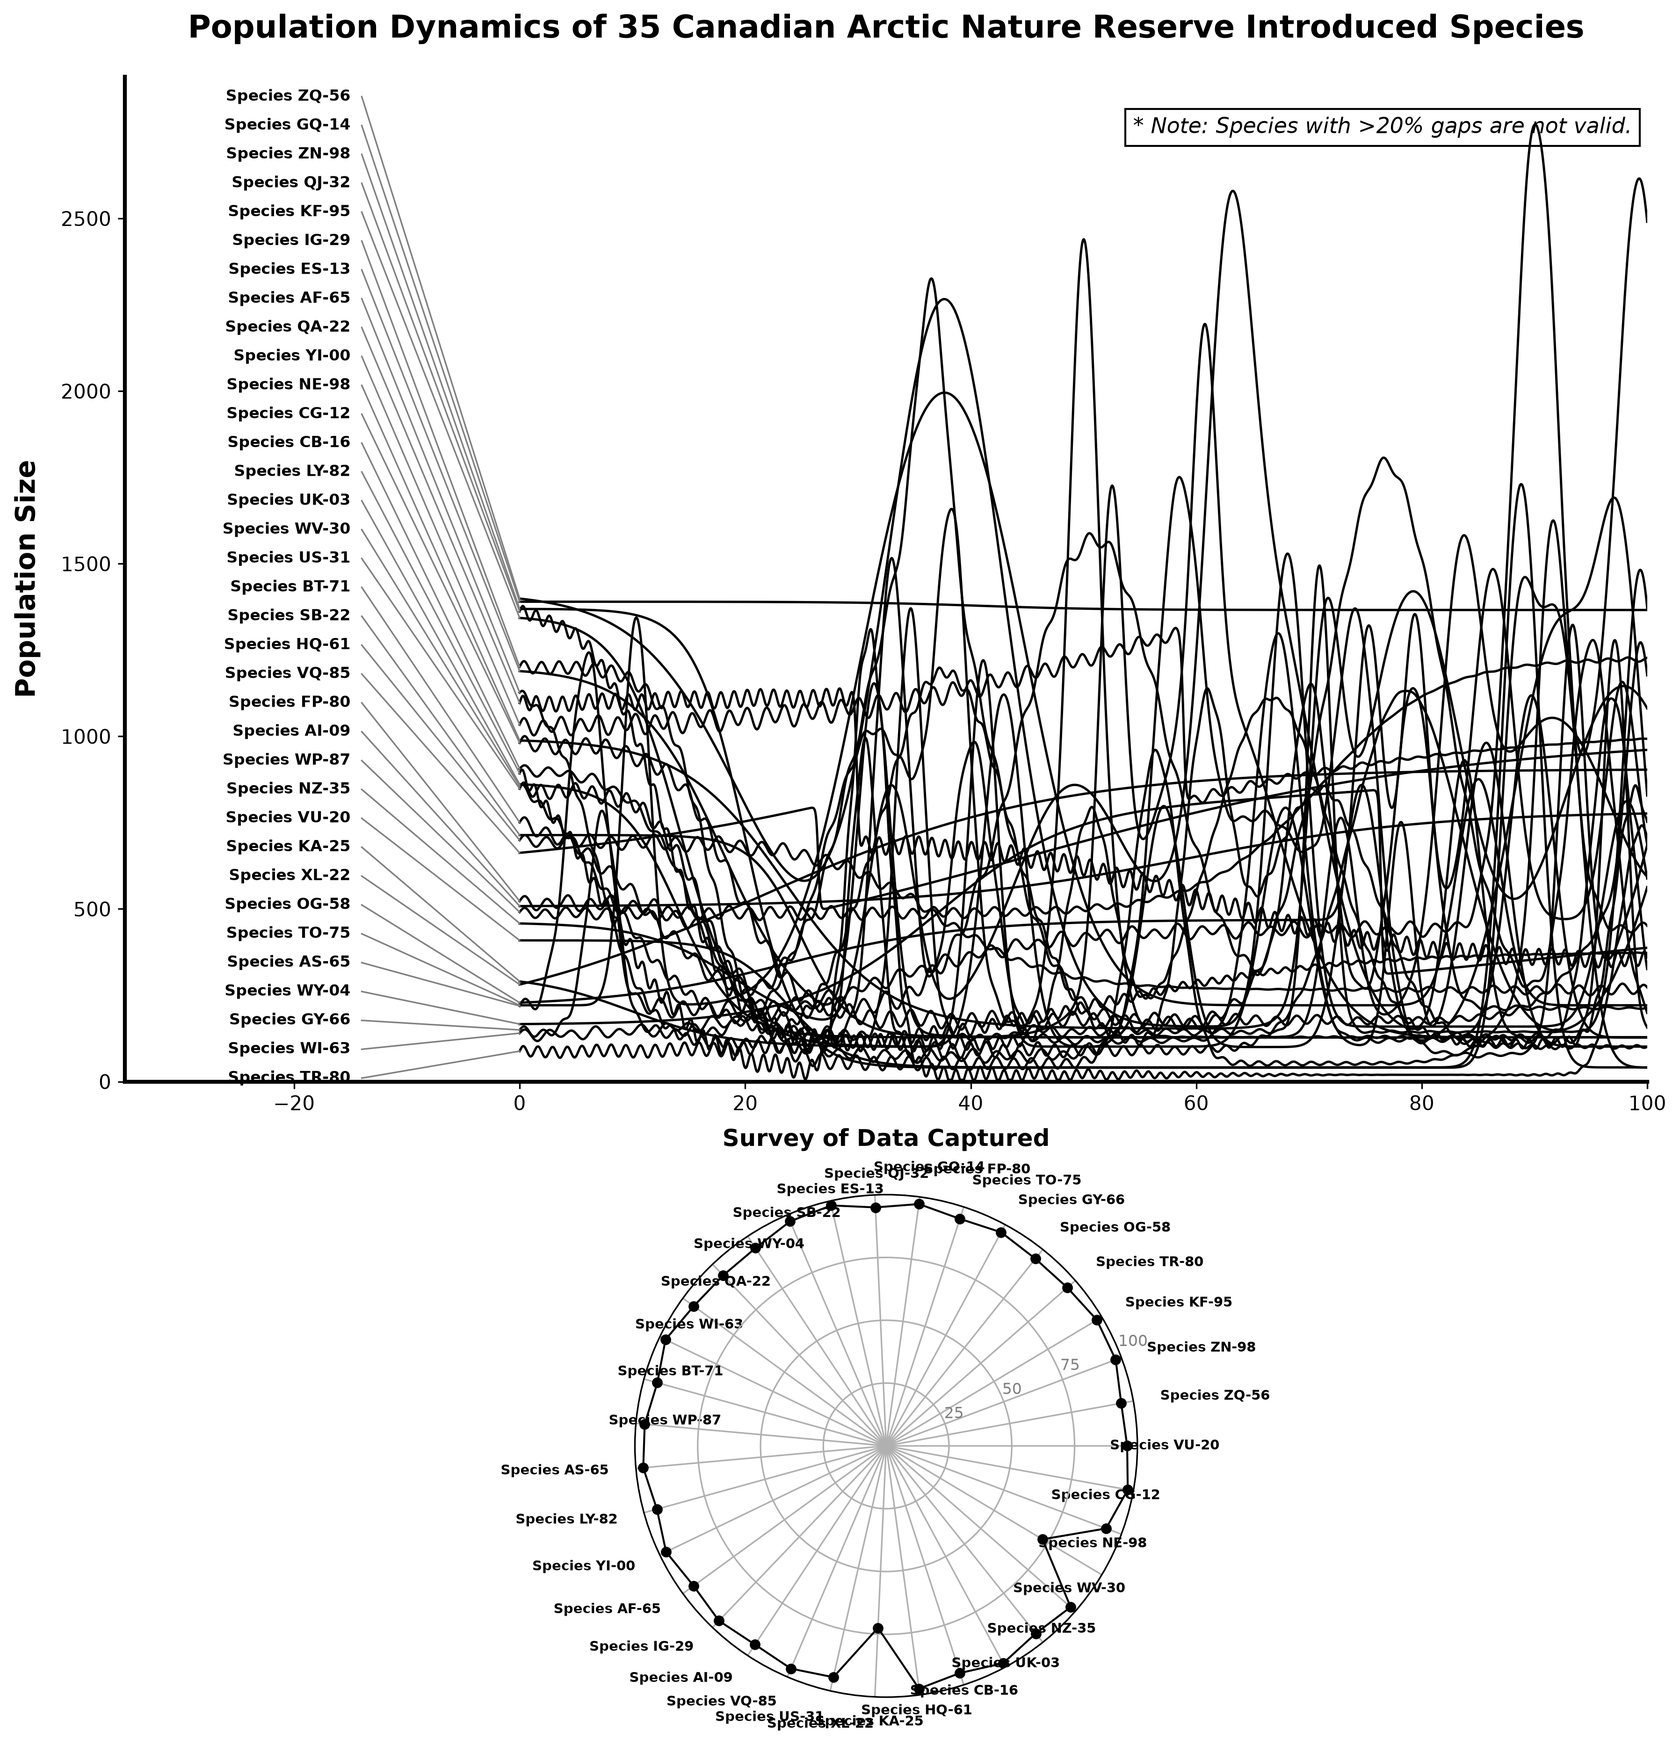
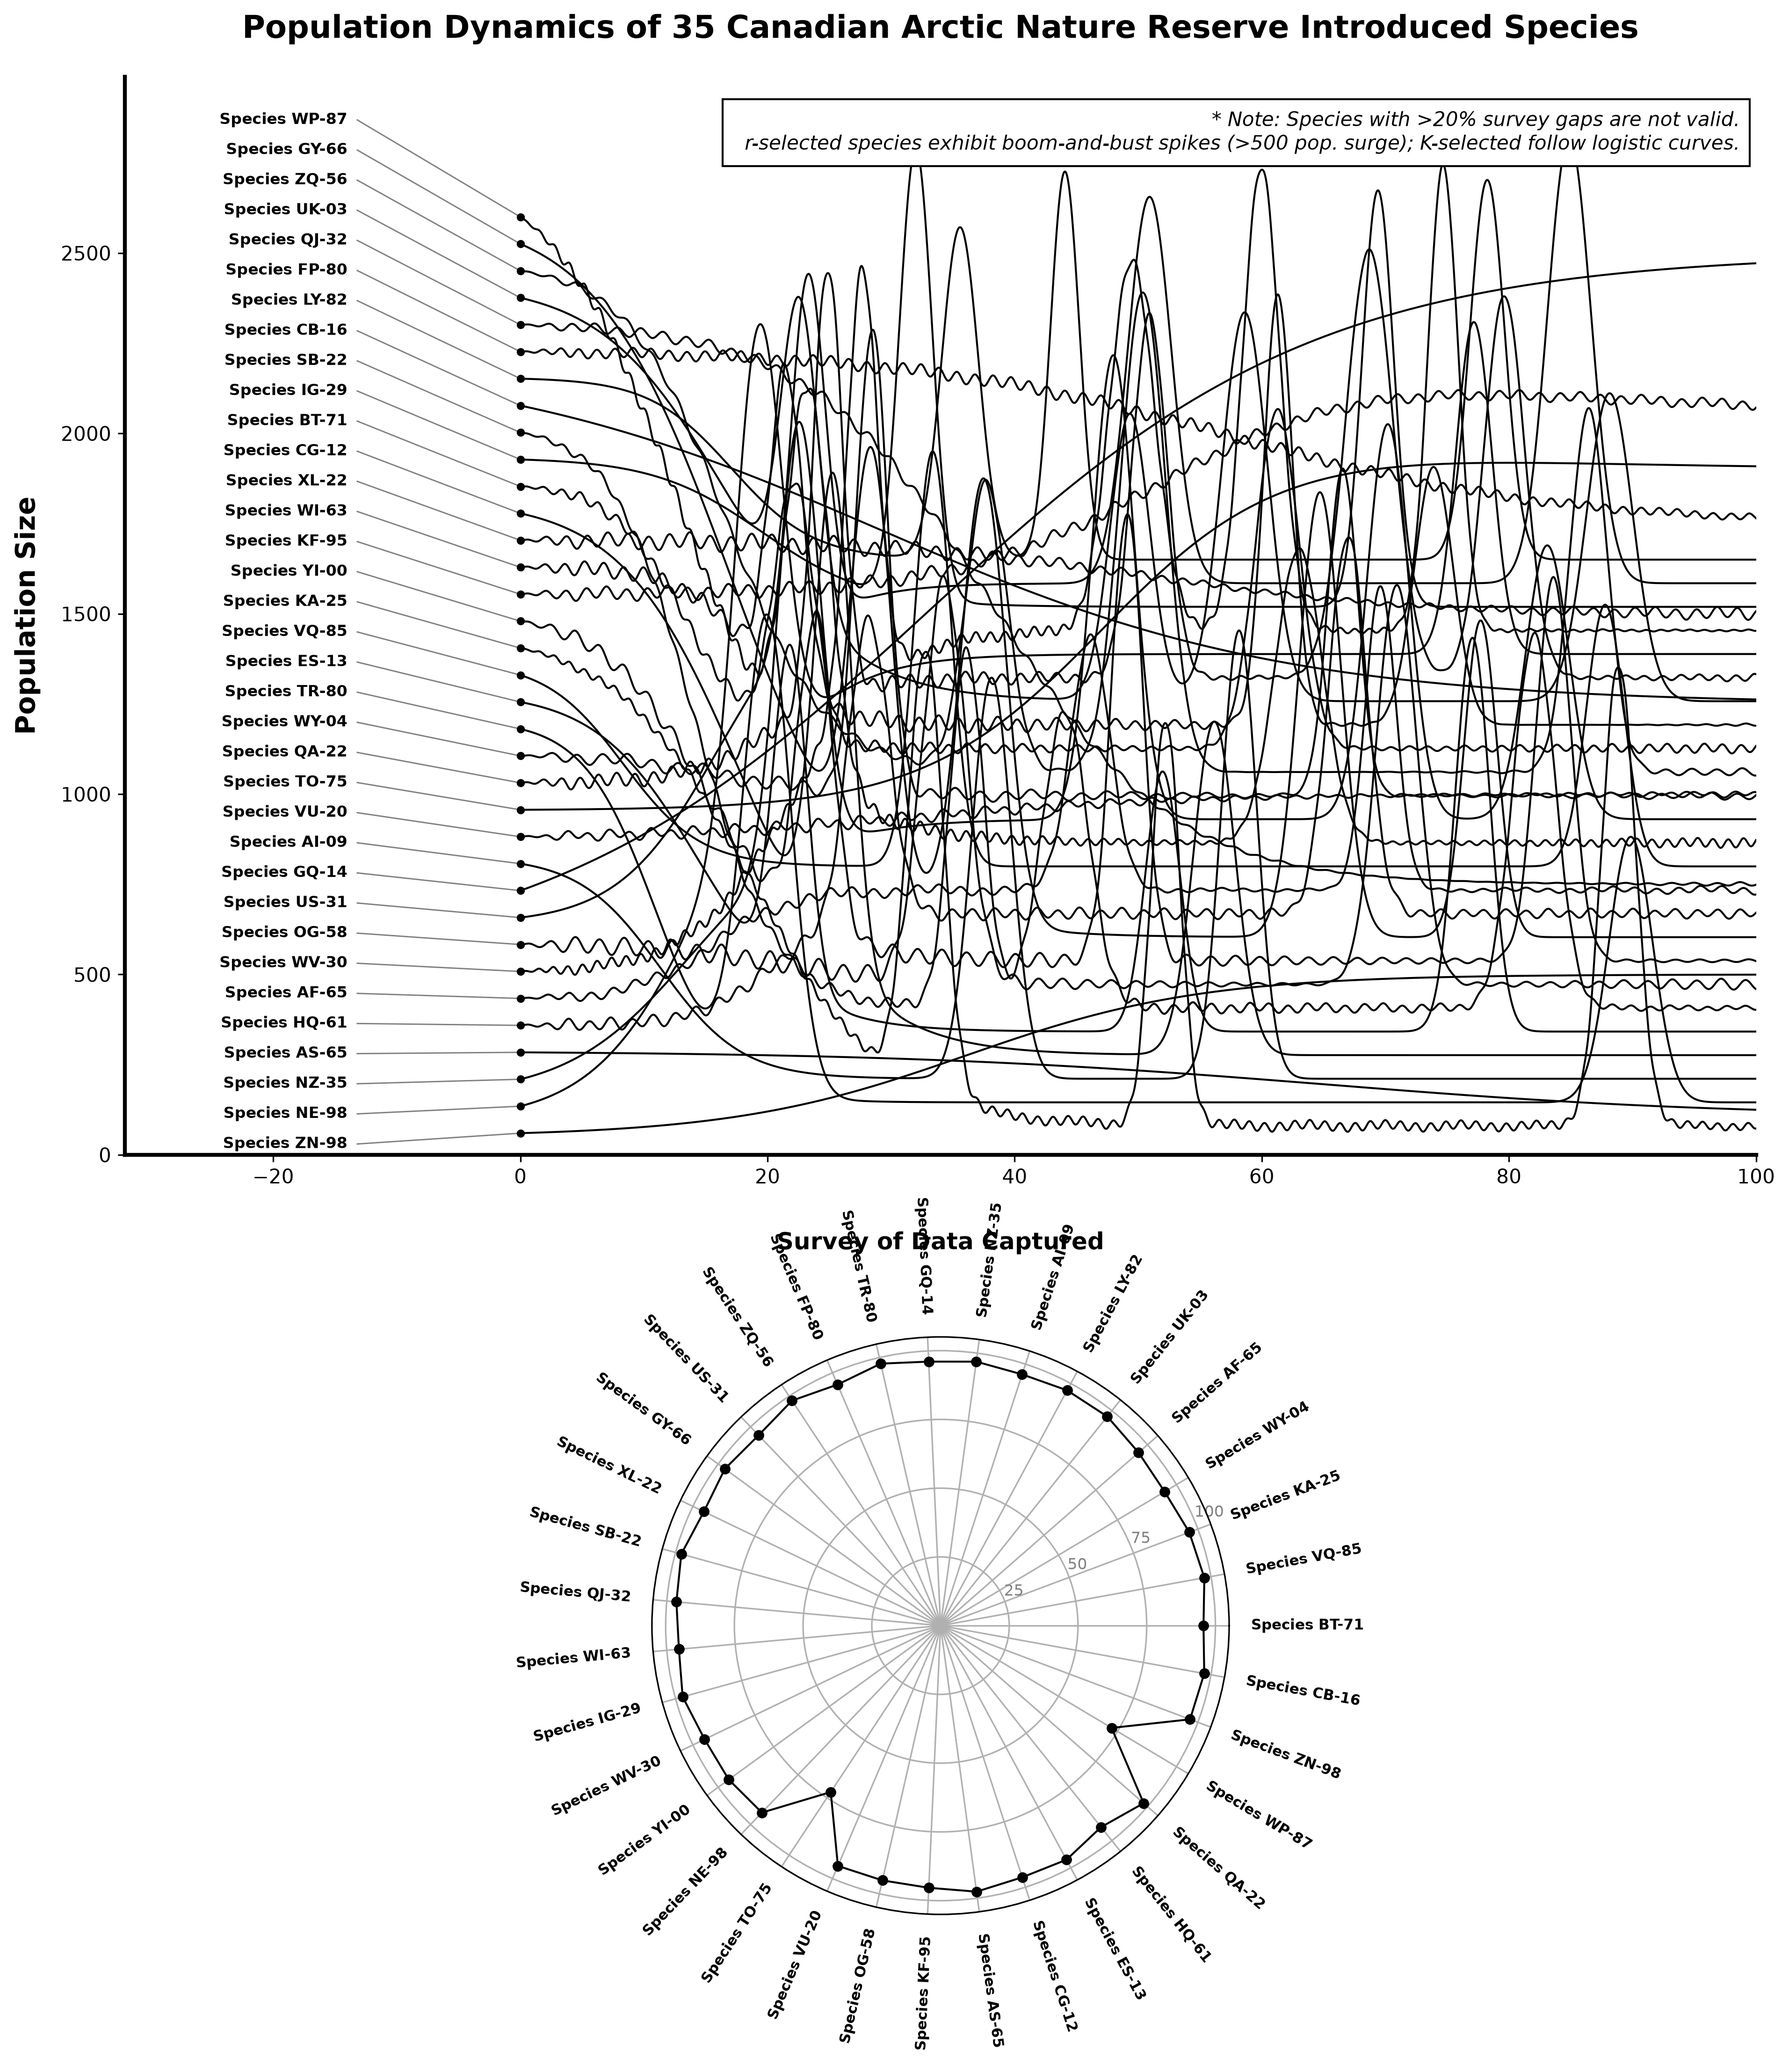
v12

diff --git a/generate-graph.py b/generate-graph.py
@@ -5,6 +5,9 @@ import random
 import string
 import sys
 
+# Silence overflow warnings from steep exponential terms
+np.seterr(over='ignore')
+
 # Generate high-resolution time data
 t = np.linspace(0, 110, 3000)
 
@@ -29,11 +32,12 @@ unique_codes = set()
 while len(unique_codes) < 35:
     code = "".join(random.choices(string.ascii_uppercase, k=2)) + "-" + "".join(random.choices(string.digits, k=2))
     unique_codes.add(code)
-unique_codes = list(unique_codes)
+unique_codes = sorted(list(unique_codes))
 random.shuffle(unique_codes)
 
-# Expanded vertical space to create sharper, more distinct 'X' intersections
-all_target_starts = random.sample(range(20, 1400), 35)
+# 1. GUARANTEE UNIQUE, EVENLY SPACED Y-ORIGINS AT X=0 (Minimum ~74 units apart)
+all_target_starts = list(np.linspace(60, 2600, 35))
+random.shuffle(all_target_starts)
 k_starts = all_target_starts[:10]
 r_starts = all_target_starts[10:]
 
@@ -62,11 +66,13 @@ def inject_missing_data(pop_array, time_array, is_decoy=False):
 
 
 def add_shatter_jitter(pop_array, time_array):
-    """Applies high-frequency seasonal wobble with a dynamic amplitude envelope."""
-    envelope = 0.5 + 0.3 * np.sin(time_array * np.random.uniform(0.02, 0.08)) + 0.2 * np.cos(
-        time_array * np.random.uniform(0.01, 0.05))
-    wobble1 = np.random.uniform(15, 35) * np.sin(time_array * np.random.uniform(3.0, 6.0))
-    wobble2 = np.random.randint(2, 10) * np.cos(time_array * np.random.uniform(0.8, 2.0))
+    """Applies high-frequency seasonal wobble that is strictly 0 at t=0 to preserve origin separation."""
+    # Ramp ensures jitter is 0 at t=0 and reaches full strength by t=4
+    ramp = np.minimum(1.0, time_array / 4.0)
+    envelope = (0.5 + 0.3 * np.sin(time_array * np.random.uniform(0.02, 0.08)) +
+                0.2 * np.cos(time_array * np.random.uniform(0.01, 0.05))) * ramp
+    wobble1 = np.random.uniform(12, 26) * np.sin(time_array * np.random.uniform(3.0, 5.5))
+    wobble2 = np.random.randint(2, 8) * np.sin(time_array * np.random.uniform(0.8, 2.0))
     pop_array += (wobble1 + wobble2) * envelope
     return pop_array
 
@@ -74,6 +80,11 @@ def add_shatter_jitter(pop_array, time_array):
 # ==========================================
 # POPULATION MATH (35 Species)
 # ==========================================
+
+# --- 10 K-selected species: Smooth logistic trajectories & gentle carrying-capacity shifts ---
+# Stratified end populations so K-curves spread cleanly across the entire vertical space
+k_ends = list(np.linspace(250, 2500, 10))
+random.shuffle(k_ends)
 
 for i in range(10):
     name = f"Species {unique_codes[i]}"
@@ -85,31 +96,39 @@ for i in range(10):
         ground_truth["decoys_to_ignore"].append(name)
 
     start_pop = k_starts[i]
-    end_pop = np.random.randint(100, 1400)  # Scaled up to match new space
-    midpoint = np.random.randint(20, 80)
-    rate = np.random.uniform(0.05, 0.2)
+    end_pop = k_ends[i]
+    midpoint = np.random.uniform(22, 65)
+    rate = np.random.uniform(0.06, 0.14)
 
-    pop = start_pop + (end_pop - start_pop) / (1 + np.exp(-rate * (t - midpoint)))
+    # Normalized logistic curve so pop[0] == start_pop exactly
+    raw_logistic = 1.0 / (1.0 + np.exp(-rate * (t - midpoint)))
+    raw_0 = 1.0 / (1.0 + np.exp(-rate * (0.0 - midpoint)))
+    norm_logistic = (raw_logistic - raw_0) / (1.0 - raw_0)
+    pop = start_pop + (end_pop - start_pop) * norm_logistic
 
-    # VERTICAL crashes
+    # Gentle carrying-capacity adjustment (replaces vertical crashes so K-selected never mimic r-selected busts)
     if random.random() > 0.5:
-        crash_time = np.random.uniform(20, 80)
-        crash_idx = int((crash_time / 110.0) * 3000)
-        if crash_idx < 3000:
-            current_level = pop[crash_idx]
-            crash_depth = np.random.uniform(0.4, 0.7) * current_level
-            crash_steepness = np.random.uniform(5.0, 15.0)
-            pop -= crash_depth / (1 + np.exp(-crash_steepness * (t - crash_time)))
-            recovery_rate = np.random.uniform(0.02, 0.08)
-            pop += (crash_depth * np.random.uniform(0.3, 0.8)) / (1 + np.exp(-recovery_rate * (t - (crash_time + 15))))
+        shift_time = np.random.uniform(50, 80)
+        shift_amp = np.random.uniform(-220, 220)
+        shift_rate = np.random.uniform(0.06, 0.12)
+        s_raw = 1.0 / (1.0 + np.exp(-shift_rate * (t - shift_time)))
+        s_0 = 1.0 / (1.0 + np.exp(-shift_rate * (0.0 - shift_time)))
+        pop += shift_amp * (s_raw - s_0)
 
     if random.random() > 0.5:
         pop = add_shatter_jitter(pop, t)
 
-    pop = np.clip(pop, 5, None)
+    pop = np.clip(pop, 10, None)
+    pop[0] = start_pop  # Lock exact t=0 value
     pop_full = pop.copy()
     pop_gaps = inject_missing_data(pop.copy(), t, is_decoy)
     lines.append((pop_gaps, pop_full))
+
+
+# --- 25 r-selected species: Stratified baselines (no 0-400 pileup) + unmistakable boom-and-bust spikes ---
+# Spread baselines across 80 to 1650 so curves never stack into an unreadable black band at the bottom
+r_baselines = list(np.linspace(80, 1650, 25))
+random.shuffle(r_baselines)
 
 for i in range(25):
     name = f"Species {unique_codes[i + 10]}"
@@ -121,41 +140,34 @@ for i in range(25):
         ground_truth["decoys_to_ignore"].append(name)
 
     target_start = float(r_starts[i])
+    base_pop = float(r_baselines[i])
 
-    if target_start > 250:
-        base_pop = np.random.uniform(10.0, 180.0)
-        crash_midpoint = np.random.uniform(5, 25)
-        crash_rate = np.random.uniform(0.2, 0.5)
-        height = (target_start - base_pop) * (1 + np.exp(-crash_rate * crash_midpoint))
-        pop = base_pop + height / (1 + np.exp(crash_rate * (t - crash_midpoint)))
-        spike_start = 30
-    else:
-        if random.random() > 0.5:
-            fake_k_end = np.random.uniform(target_start + 50, target_start + 400)
-            fake_mid = np.random.uniform(20, 50)
-            fake_rate = np.random.uniform(0.05, 0.15)
-            pop = target_start + (fake_k_end - target_start) / (1 + np.exp(-fake_rate * (t - fake_mid)))
-            spike_start = np.random.uniform(55, 75)
-        else:
-            base_pop = target_start
-            pop = np.full_like(t, base_pop, dtype=float)
-            early_spike = np.random.uniform(5, 15)
-            early_height = np.random.randint(600, 1400)  # Scaled up
-            early_width = np.random.uniform(2, 6)
-            pop += early_height * np.exp(-((t - early_spike) ** 2) / early_width)
-            spike_start = 30
+    # Smooth transition from exact target_start at t=0 to the species' stratified baseline
+    trans_mid = np.random.uniform(8, 22)
+    trans_rate = np.random.uniform(0.18, 0.35)
+    raw_trans = 1.0 / (1.0 + np.exp(-trans_rate * (t - trans_mid)))
+    raw_trans_0 = 1.0 / (1.0 + np.exp(-trans_rate * (0.0 - trans_mid)))
+    norm_trans = (raw_trans - raw_trans_0) / (1.0 - raw_trans_0)
+    pop = target_start + (base_pop - target_start) * norm_trans
 
     if random.random() > 0.5:
         pop = add_shatter_jitter(pop, t)
 
-    num_spikes = np.random.randint(2, 6)
-    for _ in range(num_spikes):
-        spike_time = np.random.uniform(spike_start, 110)
-        spike_height = np.random.randint(600, 1400)
-        width = np.random.uniform(30, 80) if random.random() > 0.7 else np.random.uniform(2, 8)
-        pop += spike_height * np.exp(-((t - spike_time) ** 2) / width)
+    # Every r-selected species gets 2 to 4 unmistakable boom-and-bust spikes (>650 prominence)
+    # Staggered across time windows so spikes cross cleanly at sharp 'X' angles instead of overlapping vertically
+    num_spikes = np.random.randint(2, 5)
+    windows = np.linspace(14, 92, num_spikes + 1)
+    for w_idx in range(num_spikes):
+        spike_time = np.random.uniform(windows[w_idx] + 2, windows[w_idx + 1] - 2)
+        spike_height = np.random.uniform(700, 1350)
+        width = np.random.uniform(2.5, 7.5)
 
-    pop = np.clip(pop, 5, None)
+        spike_curve = spike_height * np.exp(-((t - spike_time) ** 2) / width)
+        spike_0 = spike_height * np.exp(-((0.0 - spike_time) ** 2) / width)
+        pop += (spike_curve - spike_0)
+
+    pop = np.clip(pop, 10, None)
+    pop[0] = target_start  # Lock exact t=0 value
     pop_full = pop.copy()
     pop_gaps = inject_missing_data(pop.copy(), t, is_decoy)
     lines.append((pop_gaps, pop_full))
@@ -165,7 +177,7 @@ random.shuffle(combined)
 labels, lines = zip(*combined)
 
 max_pop_value = max([np.nanmax(pop_full) for pop_gaps, pop_full in lines])
-y_limit = max(1500.0, max_pop_value * 1.05)
+y_limit = max(2800.0, max_pop_value * 1.06)
 
 with open("ground_truth.json", "w") as f:
     json.dump(ground_truth, f, indent=4)
@@ -175,8 +187,8 @@ print("Saved ground truth to ground_truth.json")
 # PLOTTING THE TWO-PANEL GRAPH
 # ==========================================
 
-fig = plt.figure(figsize=(14, 15))
-gs = fig.add_gridspec(2, 1, height_ratios=[3.0, 1.5], hspace=0.15)
+fig = plt.figure(figsize=(15, 17))
+gs = fig.add_gridspec(2, 1, height_ratios=[2.8, 1.5], hspace=0.22)
 ax1 = fig.add_subplot(gs[0])
 ax2 = fig.add_subplot(gs[1], polar=True)
 
@@ -187,23 +199,30 @@ sorted_indices = np.argsort(start_vals)
 for pop_gaps, pop_full in lines:
     plot_mask = t <= 100
     z = random.randint(10, 100)
-    ax1.plot(t[plot_mask], pop_full[plot_mask], color='black', linewidth=1.2, solid_joinstyle='round', zorder=z)
+    ax1.plot(t[plot_mask], pop_full[plot_mask], color='black', linewidth=1.0, solid_joinstyle='round', zorder=z)
 
-text_y_positions = np.linspace(10, y_limit * 0.98, len(lines))
+# Evenly spaced label positions on the left margin
+text_y_positions = np.linspace(30, y_limit * 0.96, len(lines))
 
 for rank, idx in enumerate(sorted_indices):
     actual_y = start_vals[idx]
     text_y = text_y_positions[rank]
     label = labels[idx]
-    text_x = -15
+    text_x = -14
     ax1.text(text_x, text_y, label, va='center', ha='right', fontsize=8, fontweight='bold', zorder=150)
-    ax1.plot([text_x + 1, 0], [text_y, actual_y], color='gray', linewidth=0.8, zorder=150)
+    # Leader line connects to a guaranteed unique, non-overlapping origin point at t=0
+    ax1.plot([text_x + 0.8, 0], [text_y, actual_y], color='gray', linewidth=0.7, zorder=140)
+    # Small origin dot at t=0 so human reviewers can see each distinct starting point clearly
+    ax1.scatter([0], [actual_y], color='black', s=10, zorder=160)
 
-ax1.text(0.99, 0.96, "* Note: Species with >20% gaps are not valid.",
-         transform=ax1.transAxes, ha='right', va='top', fontsize=11, color='black', fontstyle='italic',
-         bbox=dict(facecolor='white', edgecolor='black', pad=4))
+# Clear, unambiguous note that defines the exact cutoff without giving away the count
+ax1.text(0.99, 0.97,
+         "* Note: Species with >20% survey gaps are not valid.\n"
+         "  r-selected species exhibit boom-and-bust spikes (>500 pop. surge); K-selected follow logistic curves.",
+         transform=ax1.transAxes, ha='right', va='top', fontsize=10, color='black', fontstyle='italic',
+         bbox=dict(facecolor='white', edgecolor='black', pad=5), zorder=250)
 
-ax1.set_xlim(-35, 100)
+ax1.set_xlim(-32, 100)
 ax1.set_ylim(0, y_limit)
 ax1.set_ylabel("Population Size", fontsize=14, fontweight='bold', labelpad=10)
 ax1.set_title("Population Dynamics of 35 Canadian Arctic Nature Reserve Introduced Species", fontsize=16,
@@ -213,7 +232,7 @@ ax1.spines['right'].set_visible(False)
 ax1.spines['left'].set_linewidth(2)
 ax1.spines['bottom'].set_linewidth(2)
 
-# --- Bottom Panel: Polar Data Availability Chart ---
+# --- Bottom Panel: Polar Data Availability Chart (With Radial Non-Overlapping Labels) ---
 completeness_scores = []
 for pop_gaps, _ in lines:
     plot_mask = t <= 100
@@ -229,22 +248,27 @@ scores_closed = np.concatenate((completeness_scores, [completeness_scores[0]]))
 ax2.plot(angles_closed, scores_closed, color='black', linewidth=1.0, zorder=3)
 ax2.scatter(angles, completeness_scores, color='black', s=20, zorder=4)
 
-ax2.set_ylim(0, 100)
-# Simple grid, no colored bands or explicit 80% line
+ax2.set_ylim(0, 105)
 ax2.set_yticks([25, 50, 75, 100])
 ax2.set_yticklabels(['25', '50', '75', '100'], color='gray', fontsize=8)
 ax2.set_xticks(angles)
-ax2.set_xticklabels(labels, fontsize=7, fontweight='bold')
+ax2.set_xticklabels([])  # Hide default horizontal labels to prevent pole collisions
 
-for label, angle in zip(ax2.get_xticklabels(), angles):
-    if angle in (0, np.pi):
-        label.set_horizontalalignment('center')
-    elif 0 < angle < np.pi:
-        label.set_horizontalalignment('left')
+# Place rotated radial labels along each spoke so zero labels ever touch or overlap
+for label_text, angle in zip(labels, angles):
+    angle_deg = np.degrees(angle)
+    # Flip text on the left half of the circle so it reads naturally without being upside-down
+    if 90 < angle_deg < 270:
+        rotation = angle_deg + 180
+        ha = 'right'
     else:
-        label.set_horizontalalignment('right')
+        rotation = angle_deg
+        ha = 'left'
 
-ax2.set_title("Survey of Data Captured", fontsize=12, fontweight='bold', pad=25)
+    ax2.text(angle, 113, label_text, rotation=rotation, ha=ha, va='center',
+             rotation_mode='anchor', fontsize=7.5, fontweight='bold', clip_on=False)
+
+ax2.set_title("Survey of Data Captured", fontsize=12, fontweight='bold', pad=45)
 
 plt.tight_layout()
 plt.savefig("population_dynamics.png", dpi=300, bbox_inches='tight')
@@ -260,7 +284,7 @@ for i, (pop_gaps, pop_full) in enumerate(lines):
         visible_indices = np.where(plot_mask)[0]
         if len(visible_indices) > 0:
             dot_idx = random.choice(visible_indices[500:-500])
-            ax1.plot(t[dot_idx], pop_full[dot_idx], 'ro', markersize=6, zorder=200)
+            ax1.plot(t[dot_idx], pop_full[dot_idx], 'ro', markersize=6, zorder=300)
 
 plt.savefig("population_dynamics_annotated.png", dpi=300, bbox_inches='tight')
 print("Saved annotated two-panel visual to population_dynamics_annotated.png")
